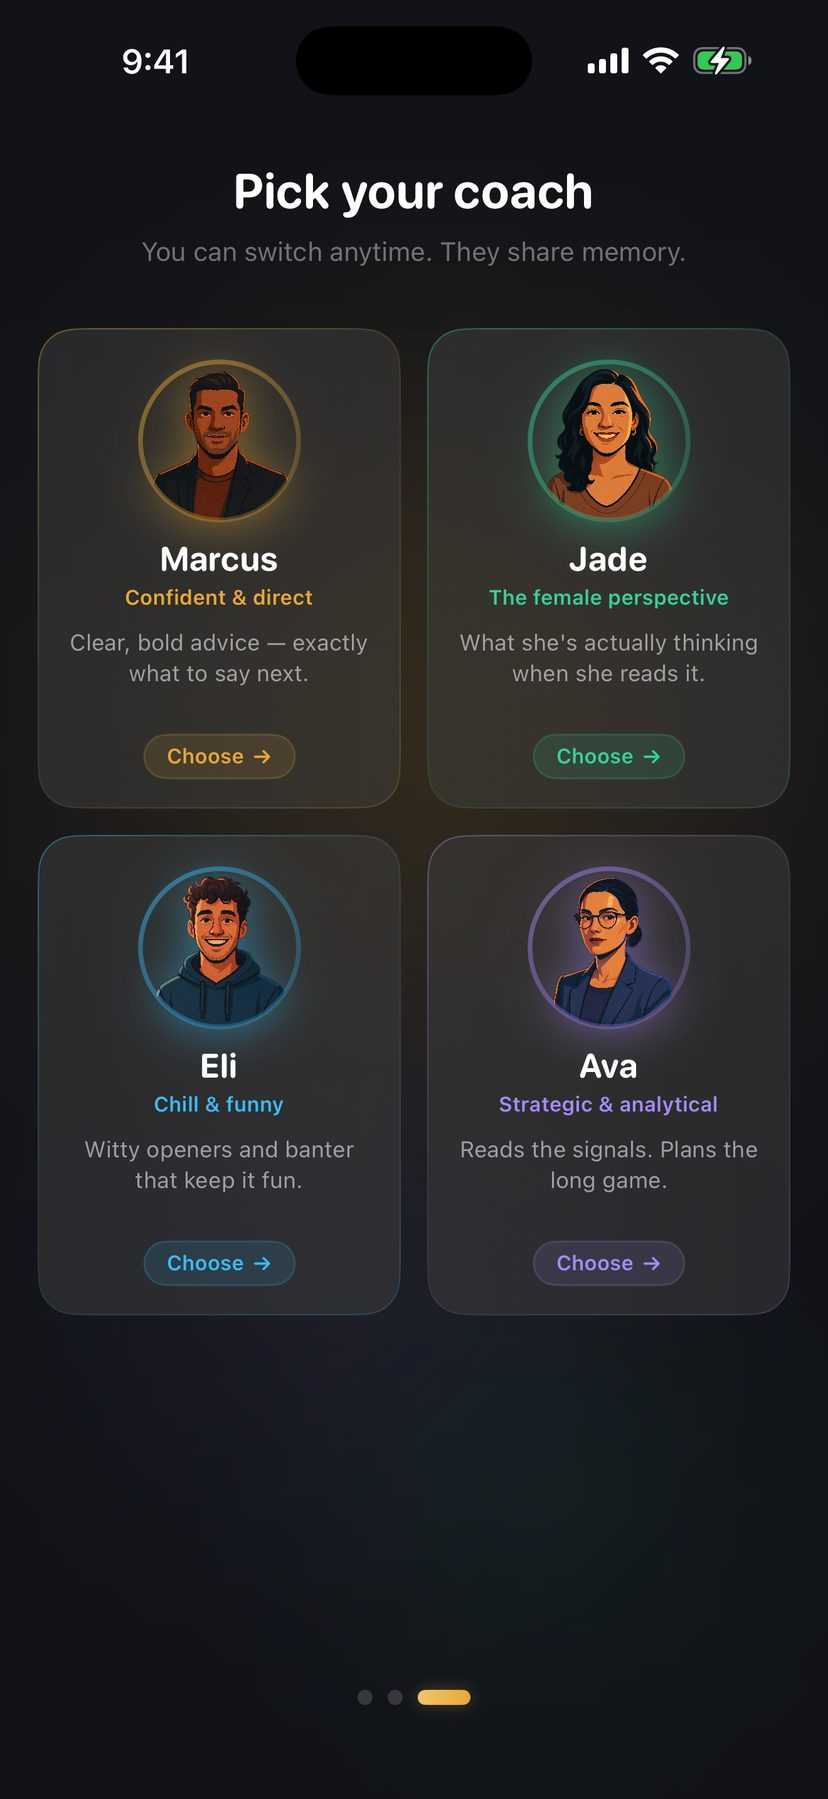
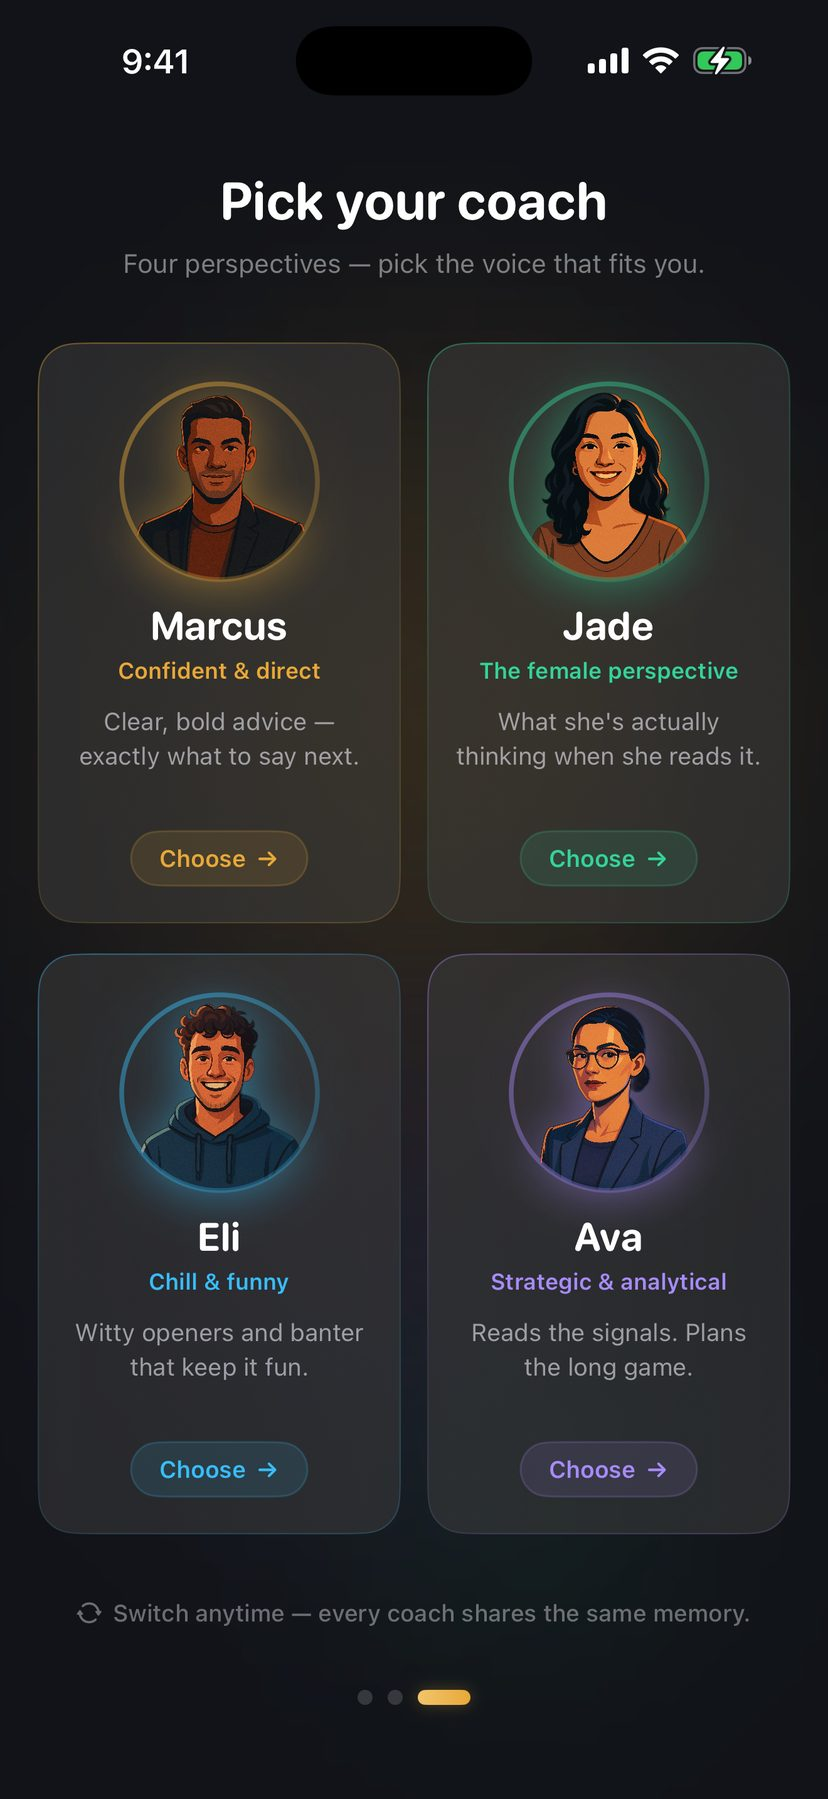
Coach picker polish: full-height balanced layout, larger cards, shared-memory footnote
Grid now fills the screen — 104pt portraits, larger name/tagline/blurb type, refreshed subtitle, and a 'switch anytime' footnote replacing the dead space below the cards. Cache-bust v9.

diff --git a/index.html b/index.html
@@ -619,7 +619,7 @@
                 <img class="active" fetchpriority="high" src="assets/screens/screen-chat.jpg?v=4" alt="Wingmate chat — Marcus reads the Hinge thread with Emma and hands you a ready-to-send reply with a Warm interest-level read." data-caption="Tap-to-copy replies, not a chatbot">
                 <img src="assets/screens/screen-openers.jpg?v=6" alt="The opener vault — saved openers organized by every platform: Tinder, Hinge, Bumble, and Texting, each one tap-to-copy." data-caption="Your opener vault, always ready">
                 <img src="assets/screens/screen-analyze.jpg?v=4" alt="Drop a screenshot of the conversation and Ava breaks down the signals — who's driving the thread and what the reply gap really means." data-caption="Reads your screenshots">
-                <img src="assets/screens/screen-coaches.jpg?v=6" alt="Four coaches — Marcus, Jade, Eli, and Ava — each with a different perspective on your situation." data-caption="Four coaches, four perspectives">
+                <img src="assets/screens/screen-coaches.jpg?v=9" alt="Four coaches — Marcus, Jade, Eli, and Ava — each with a different perspective on your situation." data-caption="Four coaches, four perspectives">
                 <img src="assets/screens/screen-connections.jpg?v=8" alt="Connections — track everyone you're talking to, from matching to exclusive, with an archived section for the ones that ran their course." data-caption="Track every connection">
                 <img src="assets/screens/screen-settings.jpg?v=4" alt="Settings — switch active coach, adjust coaching tone between Gentle and Direct, and set dating experience level." data-caption="Tune your experience">
               </div>
